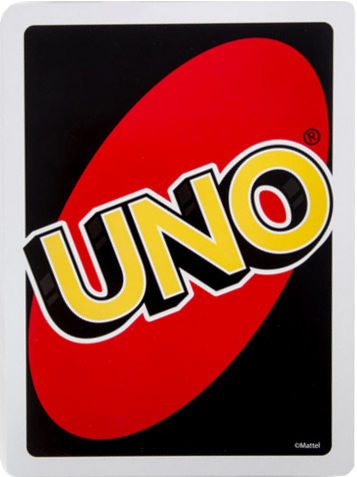
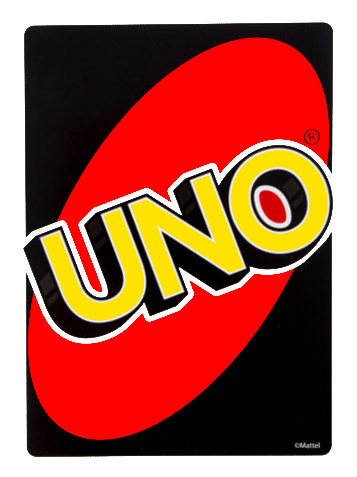
Done

diff --git a/Aufgabe 02/test2.ts b/Aufgabe 02/test2.ts
@@ -15,33 +15,41 @@ namespace deck {
                 case 2:
                 case 3:
                     for (let typ: number = 0; typ < 13; typ++) {
-                        switch (typ) {
-                            case 0:
-                                deck[num] = [color, typ];
-                                num++;
-                                break;
-                            case 1:
-                            case 2:
-                            case 3:
-                            case 4:
-                            case 5:
-                            case 6:
-                            case 7:
-                            case 8:
-                            case 9:
-                            case 10:
-                            case 11:
-                            case 12:
-                                for (let i: number = 0; i < 2; i++) {
-                                    deck[num] = [color, typ];
-                                    num++;
-                                }
-                                break;
-                            default:
-                                console.log("Something's wrong. -> typ-Switch");
+                        for (let i: number = 0; i < 2; i++) {
+                            deck[num] = [color, typ];
+                            num++;
+                            if (typ == 0)
                                 break;
                         }
                     }
+                    //                    for (let typ: number = 0; typ < 13; typ++) {
+                    //                        switch (typ) {
+                    //                            case 0:
+                    //                                deck[num] = [color, typ];
+                    //                                num++;
+                    //                                break;
+                    //                            case 1:
+                    //                            case 2:
+                    //                            case 3:
+                    //                            case 4:
+                    //                            case 5:
+                    //                            case 6:
+                    //                            case 7:
+                    //                            case 8:
+                    //                            case 9:
+                    //                            case 10:
+                    //                            case 11:
+                    //                            case 12:
+                    //                                for (let i: number = 0; i < 2; i++) {
+                    //                                    deck[num] = [color, typ];
+                    //                                    num++;
+                    //                                }
+                    //                                break;
+                    //                            default:
+                    //                                console.log("Something's wrong. -> typ-Switch");
+                    //                                break;
+                    //                        }
+                    //                    }
                     break;
                 case 4:
                     for (let typ: number = 13; typ < 15; typ++) {
@@ -75,17 +83,17 @@ namespace deck {
         div_board.appendChild(div_stack);
         div_board.appendChild(div_deck);
         div_board.appendChild(div_tray);
-        
-        div_stack.id=("div_stack");
-        
-        
+
+        div_stack.id = ("div_stack");
+
+
         let uno_img = document.createElement("img");
-        uno_img.setAttribute("src", "img/UNO.jpg");
+        uno_img.setAttribute("src", "img/UNO.png");
         uno_img.setAttribute("height", "208px");
-        uno_img.setAttribute("width", "132px"); 
+        uno_img.setAttribute("width", "155px");
         uno_img.setAttribute("alt", "uno");
         document.getElementById("div_stack").appendChild(uno_img);
-        
+
         let cards = parseInt(prompt("Wie viele Karten willst du ziehen?"), 10);
         for (let i: number = 0; i < cards; i++) {
             let div: HTMLDivElement = document.createElement("div");
@@ -176,8 +184,8 @@ namespace deck {
                 case 11:
                     div.classList.add("direction")
                     div.innerHTML = "<->";
-                    break; 
- 
+                    break;
+
                 case 12:
                     div.classList.add("drawtwo")
                     div.innerHTML = "+2";
@@ -189,22 +197,23 @@ namespace deck {
                     break;
 
                 case 14:
-                    div.classList.add("choose"); 
+                    div.classList.add("choose");
                     div.innerHTML = "choose";
                     break;
             }
 
 
-        }}
-
-        function generateRandom(min: number, max: number) {
-            min = Math.ceil(min);
-            max = Math.floor(max);
-            return Math.floor(Math.random() * (max - min)) + min;
         }
-
-
-        console.log(deck);
-
-        document.addEventListener('DOMContentLoaded', generateDeck);
     }
+
+    function generateRandom(min: number, max: number) {
+        min = Math.ceil(min);
+        max = Math.floor(max);
+        return Math.floor(Math.random() * (max - min)) + min;
+    }
+
+
+    console.log(deck);
+
+    document.addEventListener('DOMContentLoaded', generateDeck);
+}

diff --git a/Aufgabe 02/test2.js b/Aufgabe 02/test2.js
@@ -13,33 +13,41 @@ var deck;
                 case 2:
                 case 3:
                     for (let typ = 0; typ < 13; typ++) {
-                        switch (typ) {
-                            case 0:
-                                deck[num] = [color, typ];
-                                num++;
-                                break;
-                            case 1:
-                            case 2:
-                            case 3:
-                            case 4:
-                            case 5:
-                            case 6:
-                            case 7:
-                            case 8:
-                            case 9:
-                            case 10:
-                            case 11:
-                            case 12:
-                                for (let i = 0; i < 2; i++) {
-                                    deck[num] = [color, typ];
-                                    num++;
-                                }
-                                break;
-                            default:
-                                console.log("Something's wrong. -> typ-Switch");
+                        for (let i = 0; i < 2; i++) {
+                            deck[num] = [color, typ];
+                            num++;
+                            if (typ == 0)
                                 break;
                         }
                     }
+                    //                    for (let typ: number = 0; typ < 13; typ++) {
+                    //                        switch (typ) {
+                    //                            case 0:
+                    //                                deck[num] = [color, typ];
+                    //                                num++;
+                    //                                break;
+                    //                            case 1:
+                    //                            case 2:
+                    //                            case 3:
+                    //                            case 4:
+                    //                            case 5:
+                    //                            case 6:
+                    //                            case 7:
+                    //                            case 8:
+                    //                            case 9:
+                    //                            case 10:
+                    //                            case 11:
+                    //                            case 12:
+                    //                                for (let i: number = 0; i < 2; i++) {
+                    //                                    deck[num] = [color, typ];
+                    //                                    num++;
+                    //                                }
+                    //                                break;
+                    //                            default:
+                    //                                console.log("Something's wrong. -> typ-Switch");
+                    //                                break;
+                    //                        }
+                    //                    }
                     break;
                 case 4:
                     for (let typ = 13; typ < 15; typ++) {
@@ -71,9 +79,9 @@ var deck;
         div_board.appendChild(div_tray);
         div_stack.id = ("div_stack");
         let uno_img = document.createElement("img");
-        uno_img.setAttribute("src", "img/UNO.jpg");
+        uno_img.setAttribute("src", "img/UNO.png");
         uno_img.setAttribute("height", "208px");
-        uno_img.setAttribute("width", "132px");
+        uno_img.setAttribute("width", "155px");
         uno_img.setAttribute("alt", "uno");
         document.getElementById("div_stack").appendChild(uno_img);
         let cards = parseInt(prompt("Wie viele Karten willst du ziehen?"), 10);

diff --git a/Aufgabe 02/css/test.css b/Aufgabe 02/css/test.css
@@ -1,9 +1,9 @@
 .div_hand {
 	position: fixed;
 	bottom: 0;
-	width: 60%;
+	width: 70%;
 	height: 200px;
-	margin: 0% 20% 0% 20%;
+	margin: 0% 15% 0% 15%;
 	border-width: 1px 1px 0px 1px;
 	border-style: solid;
 	border-color: black;
@@ -46,7 +46,7 @@
 }
 
 .card {
-	width: 132px;
+	width: 155px;
 	height: 208px;
 	display: inline-block;
 	margin: 1%;
@@ -67,20 +67,22 @@ p {
 .div_stack {
 	position: absolute;
 	top: 20%;
-	width: 132px;
+	width: 155px;
 	height: 208px;
 	border-width: 1px 1px 1px 1px;
 	border-style: solid;
 	border-color: black;
 	border-radius: 10px 10px 10px 10px;
-	
+	-webkit-box-shadow: 0px 0px 12px 0px rgba(0,0,0,0.6);
+	-moz-box-shadow: 0px 0px 12px 0px rgba(0,0,0,0.6);
+	box-shadow: 0px 0px 12px 0px rgba(0,0,0,0.6);
 	right: 10%;
 }
 
 .div_tray {
 	position: absolute;
 	top: 20%;
-	width: 132px;
+	width: 155px;
 	height: 208px;
 	border-width: 1px 1px 1px 1px;
 	border-style: solid;
@@ -88,10 +90,13 @@ p {
 	border-radius: 10px 10px 10px 10px;
 	margin: auto;
 	left: 45%;
+	-webkit-box-shadow: 0px 0px 12px 0px rgba(0,0,0,0.6);
+	-moz-box-shadow: 0px 0px 12px 0px rgba(0,0,0,0.6);
+	box-shadow: 0px 0px 12px 0px rgba(0,0,0,0.6);
 }
 
 img {
 	height: 208px;
-	width: 132px;
+	width: 155px;
 }
 }
